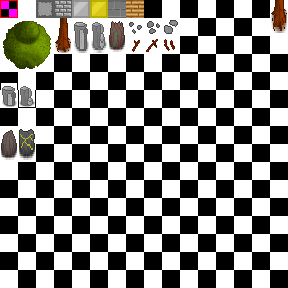
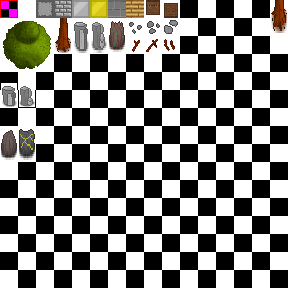
[Server, Client] Added spyglass and chest [Client] Fixed #76 Other little tweaks

Changed region(s): [[0.5, 0.0, 0.625, 0.0625]]

diff --git a/client-source/States/GameState.cpp b/client-source/States/GameState.cpp
@@ -22,8 +22,9 @@
 #include "../../common-source/Networking/CtoS_PlayerActionCodes.h"
 #include "../../common-source/Networking/ServerToClientCodes.h"
 
-#include "../../client-source/Res/ResourceManager.h"
-#include "../../client-source/Settings/BindingsManager.h"
+#include "../Res/ResourceManager.h"
+#include "../Settings/BindingsManager.h"
+#include "../../common-source/Items/ItemsRegister.h"
 
 #include "../../external/tiny-process-library/process.hpp"
 
@@ -52,6 +53,9 @@ GameState::GameState(Game& game, unsigned int id) :
       init_frames_to_skip(20),
       chunk_vertices_thread(&GameState::chunkVerticesGenerationLoop, this)
 {
+    Player::this_player = nullptr;
+    Player::this_player_id = 0;
+
     update_transparent = false;
     draw_transparent = false;
 }
@@ -68,6 +72,9 @@ GameState::GameState(Game& game, unsigned int id, sf::IpAddress server_address, 
       init_frames_to_skip(20),
       chunk_vertices_thread(&GameState::chunkVerticesGenerationLoop, this)
 {
+    Player::this_player = nullptr;
+    Player::this_player_id = 0;
+
     update_transparent = false;
     draw_transparent = false;
 }
@@ -253,6 +260,16 @@ void GameState::update(float delta_time)
 void GameState::draw(sf::RenderTarget& target) const
 {
     target.setView(my_view);
+
+    bool spyglass = Player::this_player && Player::this_player->getInventory().contents.at(0).getItem() == ItemsRegister::SPYGLASS;
+
+    if (spyglass)
+    {
+        sf::View bis = my_view;
+        bis.zoom(1.5f);
+        target.setView(bis);
+    }
+
 
     if (init_frames_to_skip > 0)
     {

diff --git a/common-source/Grounds/GameGrounds.cpp b/common-source/Grounds/GameGrounds.cpp
@@ -12,17 +12,18 @@
 #include "GameGrounds/GroundGrass.h"
 #include "GameGrounds/GroundWater.h"
 #include "GameGrounds/GroundCarpet.h"
+#include "GameGrounds/GroundParquet.h"
 
 #include "../../common-source/Utils/Log.h"
 
-Ground const * const GameGrounds::ERROR = new GroundError();
-Ground const * const GameGrounds::DIRT =  new GroundDirt();
-Ground const * const GameGrounds::WATER = new GroundWater();
-Ground const * const GameGrounds::STONE = new GroundStone();
-Ground const * const GameGrounds::SAND  = new GroundSand();
-Ground const * const GameGrounds::GRASS = new GroundGrass();
-Ground const * const GameGrounds::WOOD =  new StaticGround("wood", true, 5);
-Ground const * const GameGrounds::CARPET = new GroundCarpet();
+Ground const * const GameGrounds::ERROR =   new GroundError();
+Ground const * const GameGrounds::DIRT =    new GroundDirt();
+Ground const * const GameGrounds::WATER =   new GroundWater();
+Ground const * const GameGrounds::STONE =   new GroundStone();
+Ground const * const GameGrounds::SAND  =   new GroundSand();
+Ground const * const GameGrounds::GRASS =   new GroundGrass();
+Ground const * const GameGrounds::WOOD =    new GroundParquet();
+Ground const * const GameGrounds::CARPET =  new GroundCarpet();
 
 
 GameGrounds::GameGrounds()

diff --git a/common-source/Grounds/Ground.h b/common-source/Grounds/Ground.h
@@ -66,6 +66,18 @@ class Ground
          * @return A vertex array to add to the chunk vertex array
          */
         virtual sf::VertexArray getSurfaceDetails(TileReference info, int frame) const;
+
+        /**
+         * To know if this texture makes bleedings for other ground's details
+         * @return True if this texture "bleeds"
+         */
+        virtual inline bool hasTextureBleedings() const { return false; }
+
+        /**
+         * Is this block a natural block
+         * @return true if this block is not man-made
+         */
+        virtual inline bool isNatural() const { return true; }
         #else
         virtual std::vector<ItemStack> getDrops() const;
 
@@ -87,11 +99,6 @@ class Ground
          */
         virtual inline uint8_t getTextureRotation(TileReference info) const { return getRandomInt(info) % 4; }
 
-        /**
-         * To know if this texture makes bleedings for other ground's details
-         * @return True if this texture "bleeds"
-         */
-        virtual inline bool hasTextureBleedings() const { return false; }
         /**
          * Get the id of the texture to use for bleeding in the tileset helper
          * @param info : Info about the ground

diff --git a/common-source/Blocks/GameBlocks.cpp b/common-source/Blocks/GameBlocks.cpp
@@ -6,6 +6,7 @@
 #include "GameBlocks/BlockError.h"
 #include "GameBlocks/BlockBoulder.h"
 #include "GameBlocks/BlockTree.h"
+#include "GameBlocks/BlockChest.h"
 
 #include "GroundBlock.h"
 
@@ -26,6 +27,7 @@ Block const * const GameBlocks::BOULDER         = new BlockBoulder("boulder", 20
 Block const * const GameBlocks::GOLD_ORE        = new BlockBoulder("gold_ore", 21, 37);
 Block const * const GameBlocks::COPPER_ORE      = new BlockBoulder("copper_ore", 22, 38);
 Block const * const GameBlocks::TREE            = new BlockTree();
+Block const * const GameBlocks::CHEST           = new BlockChest();
 
 GameBlocks::GameBlocks()
 {
@@ -56,6 +58,7 @@ void GameBlocks::initBlocks()
     addBlock(GOLD_ORE);
     addBlock(COPPER_ORE);
     addBlock(TREE);
+    addBlock(CHEST);
 }
 
 void GameBlocks::addBlock(Block const * block)

diff --git a/common-source/Grounds/GameGrounds/GroundCarpet.h b/common-source/Grounds/GameGrounds/GroundCarpet.h
@@ -8,12 +8,13 @@ public:
     GroundCarpet();
     ~GroundCarpet();
 
-    inline bool isShovelable(TileReference info) const override { return false; }
-
 #ifdef CLIENT_SIDE
-    inline uint8_t getTextureRotation(TileReference info) const { 0; }
+    inline uint8_t getTextureRotation(TileReference info) const { return 0; }
     inline bool hasTextureBleedings() const override { return true; }
+    inline bool acceptsTextureBleedings(TileReference info, const Ground* other) const override { return false; }
     inline uint32_t getBleedingForNeighborGrounds(TileReference info, int frame) const override { return 6; }
+
+    inline bool isNatural() const override { return false; }
 #endif
 
 protected:

diff --git a/common-source/Items/ItemsRegister.cpp b/common-source/Items/ItemsRegister.cpp
@@ -18,6 +18,7 @@
 Item const * const ItemsRegister::NULL_ITEM = new NullItem();
 Item const * const ItemsRegister::BALL      = new BallItem();
 Item const * const ItemsRegister::SHOVEL    = new ShovelItem();
+Item const * const ItemsRegister::SPYGLASS  = new Item("spyglass", 3);
 
 #ifdef CLIENT_SIDE
 ItemsRegister::ItemsRegister(LanguageManager& language) :
@@ -65,6 +66,7 @@ void ItemsRegister::initItems(GameBlocks& blocks, GameGrounds& grounds)
 
     addItem(BALL);
     addItem(SHOVEL);
+    addItem(SPYGLASS);
 }
 
 void ItemsRegister::addItem(Item const * item)

diff --git a/common-source/Grounds/Ground.cpp b/common-source/Grounds/Ground.cpp
@@ -60,7 +60,7 @@ sf::VertexArray Ground::getSurfaceDetails(TileReference info, int frame) const
 
 bool Ground::acceptsTextureBleedings(TileReference info, const Ground* other) const
 {
-    return (other == GameGrounds::WATER && other->getId() != getId()) || (other->hasTextureBleedings() && (other->getId() > id));
+    return (other == GameGrounds::WATER && other->getId() != getId()) || (other->hasTextureBleedings() && (other->getId() > getId()));
 }
 
 void Ground::addNeighborsBleeding(TileReference info, sf::VertexArray& vertex_array, int frame) const

diff --git a/common-source/Grounds/GameGrounds/GroundParquet.cpp b/common-source/Grounds/GameGrounds/GroundParquet.cpp
@@ -1,0 +1,23 @@
+#include "GroundParquet.h"
+
+#include "../GameGrounds.h"
+
+GroundParquet::GroundParquet() :
+    Ground("wood", true, 5)
+{
+    //ctor
+}
+
+GroundParquet::~GroundParquet()
+{
+    //dtor
+}
+
+#ifdef CLIENT_SIDE
+bool GroundParquet::acceptsTextureBleedings(TileReference info, const Ground* other) const
+{
+    return
+    (other == GameGrounds::WATER && other->getId() != getId()) ||
+    (other->hasTextureBleedings() && (other->getId() > getId()) && !other->isNatural());
+}
+#endif // CLIENT_SIDE

diff --git a/common-source/Grounds/GameGrounds/GroundParquet.h b/common-source/Grounds/GameGrounds/GroundParquet.h
@@ -1,0 +1,21 @@
+#pragma once
+
+#include "../Ground.h"
+
+class GroundParquet : public Ground
+{
+    public:
+        GroundParquet();
+        ~GroundParquet();
+
+        #ifdef CLIENT_SIDE
+        bool acceptsTextureBleedings(TileReference info, const Ground* other) const override;
+        inline uint8_t getTextureRotation(TileReference info) const override { return 0; }
+
+        inline bool isNatural() const override { return false; }
+        #endif
+    protected:
+
+    private:
+};
+

diff --git a/common-source/Blocks/GameBlocks/BlockChest.h b/common-source/Blocks/GameBlocks/BlockChest.h
@@ -1,0 +1,21 @@
+#pragma once
+
+#include "../Block.h"
+
+class BlockChest : public Block
+{
+    public:
+        BlockChest();
+        virtual ~BlockChest();
+
+        #ifdef CLIENT_SIDE
+        inline bool occults(TileReference info) const override { return false; }
+        inline uint32_t getTopTextureNumber(TileReference info) const override { return 9; }
+        #else
+        virtual std::vector<ItemStack> getDrops() const;
+        #endif
+
+    protected:
+
+    private:
+};

diff --git a/common-source/Blocks/GameBlocks/BlockChest.cpp b/common-source/Blocks/GameBlocks/BlockChest.cpp
@@ -1,0 +1,21 @@
+#include "BlockChest.h"
+
+#include "../../Items/ItemsRegister.h"
+
+BlockChest::BlockChest() :
+    Block("chest", false, 8)
+{
+    //ctor
+}
+
+BlockChest::~BlockChest()
+{
+    //dtor
+}
+
+#ifndef CLIENT_SIDE
+std::vector<ItemStack> BlockChest::getDrops() const
+{
+    return { ItemStack(ItemsRegister::SPYGLASS) };
+}
+#endif // CLIENT_SIDE

diff --git a/common-source/Blocks/GameBlocks.h b/common-source/Blocks/GameBlocks.h
@@ -46,6 +46,7 @@ class GameBlocks
         static Block const * const GOLD_ORE;
         static Block const * const COPPER_ORE;
         static Block const * const TREE;
+        static Block const * const CHEST;
 
     private:
         std::vector<Block const *> blocks;
